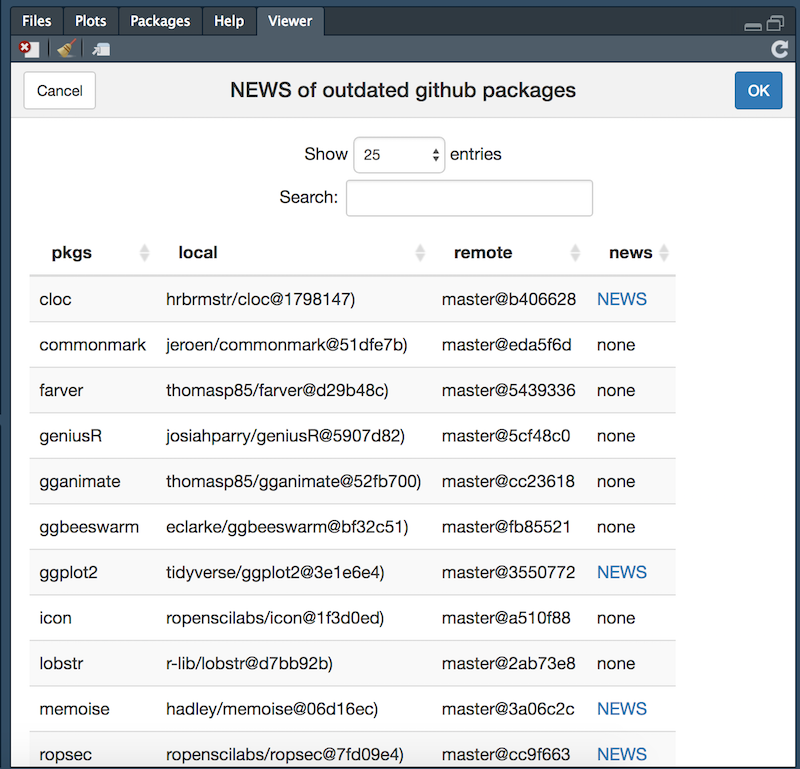
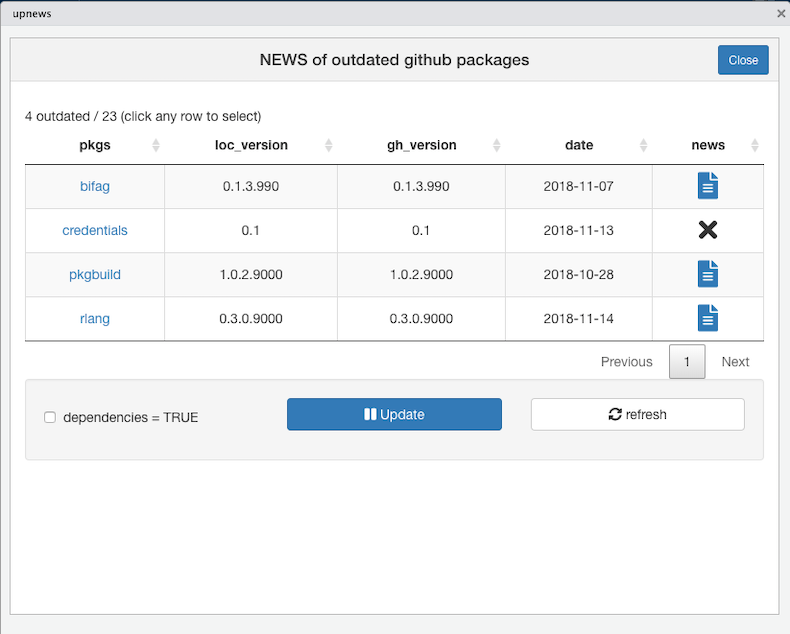
more tests and revise readme

diff --git a/README.md b/README.md
@@ -3,7 +3,7 @@
 [![Travis-CI Build Status](https://travis-ci.org/ginolhac/upnews.svg?branch=master)](https://travis-ci.org/ginolhac/upnews)
 [![Coverage status](https://codecov.io/gh/ginolhac/upnews/branch/master/graph/badge.svg)](https://codecov.io/github/ginolhac/upnews?branch=master)
 
-Display news for outdated github packages
+**Display news and upgrade outdated GitHub packages**
 
 ## Motivation
 
@@ -33,6 +33,7 @@ remotes::install_github("ginolhac/upnews", dependencies = TRUE)
 
 This add-in will fetch the remote `HEAD sha1` of local github packages and compare them, to the remote `HEAD` (same branch). 
 If some packages are outdated, fetch and display a link to a NEWS file (case insensitive `NEWS.md`).
+If the `Ref` is a commit, all branches are tested to find out from which branch it originate from.
 
 ## Usage and ouput
 
@@ -41,14 +42,17 @@ If some packages are outdated, fetch and display a link to a NEWS file (case ins
 ``` r
 > upnews::upnews()
 fetching distant sha1
-   |++++++++++++++++++++++++++++++++++++++++++++++++++| 100% elapsed = 2s
-2 outdated pkgs, fetching news...
-no news for jeroen/commonmark/master
-# A tibble: 14 x 4
-   pkgs      local                     remote       news                                                   
- * <chr>     <chr>                     <chr>        <chr>                                                  
- 1 cloc      hrbrmstr/cloc@1798147)    master@b406… https://raw.…
- 2 commonma… jeroen/commonmark@51dfe7… master@eda5… NA 
+   |++++++++++++++++++++++++++++++++++++++++++++++++++| 100% elapsed = 05s
+4 outdated pkgs (23 gh pkgs)
+fetching news...
+no news for jeroen/credentials/master
+# A tibble: 4 x 7
+  pkgs               loc_version gh_version local          remote         date       news                                                           
+* <chr>              <chr>       <chr>      <chr>          <chr>          <chr>      <chr>                                                          
+1 ginolhac/bifag     0.1.3.990   0.1.3.990  master@d490355 master@362992a 2018-11-07 https://raw.githubusercontent.com/ginolhac/bifag/master/NEWS.md
+2 jeroen/credentials 0.1         0.1        master@c9a4197 master@e1b2d9d 2018-11-13 NA                                                             
+3 r-lib/pkgbuild     1.0.2.9000  1.0.2.9000 master@aec4654 master@6e4ebdf 2018-10-28 https://raw.githubusercontent.com/r-lib/pkgbuild/master/NEWS.md
+4 tidyverse/rlang    0.3.0.9000  0.3.0.9000 master@f6a719a master@b8566db 2018-11-14 https://raw.githubusercontent.com/r-lib/rlang/master/NEWS.md
 ```
 
 ### RStudio add-in
@@ -59,7 +63,11 @@ no news for jeroen/commonmark/master
 
 ![](docs/screenshot.png)
 
-## increase limits to the GITHUB API
+- the package name has a pophover text with `user/pkg` and a link to the GitHub repo
+- local version is from the DESCRIPTION local file, and a pophover text displays `branch/commit`
+- remote version is from the DESCRIPTION remote file, and a pophover text displays `branch/commit`
+
+### increase limits to the GITHUB API
 
 If you need more request to the GitHub API, you must be authenticated. Then, the limit
 is **5,000** requests per hour instead of **60**.
@@ -71,14 +79,21 @@ To authenticate yourself, you can follow the great [happygitwithr](http://happyg
 - from a fresh R session, check you registered token with `Sys.getenv("GITHUB_PAT")`
 
 
-## Related packages
+### Related packages
 
 [@Pakillo](https://github.com/Pakillo) recently made me aware of this similar package [dtupdate](https://github.com/hrbrmstr/dtupdate) by Bob Rudis. It has no add-in plus a dependency to `dplyr` but must be more stable than this one.
 
-## TODO
+### Acknowledgements
 
-- smarter search for news 
-- add tests
+- this [SO answer](https://stackoverflow.com/a/23970412/1395352) for fixing the issue with commit sha as reference
+- [regexplain](https://github.com/gadenbuie/regexplain) by @gabenbuie for inspiration in the addin design
+- [addinslist](https://github.com/daattali/addinslist) by @daattali for inspiration in the addin design
+- @koncina and @Pakillo for testing and suggestions
+
+### TODO
+
+- smarter search for news
+- knit NEWS.md and display in Viewer pane
 - use `cli` for console output
 - is it useful since `remotes` v2.0.1 allows an interactive upgrade?
 

diff --git a/NEWS.md b/NEWS.md
@@ -15,6 +15,7 @@
 ### Bug fix
 
 * clicks on links don't trigger the row selection
+* GitHub$Ref could be a commit sha1, fix it with its branch of origin
 
 ## version 0.1
 
